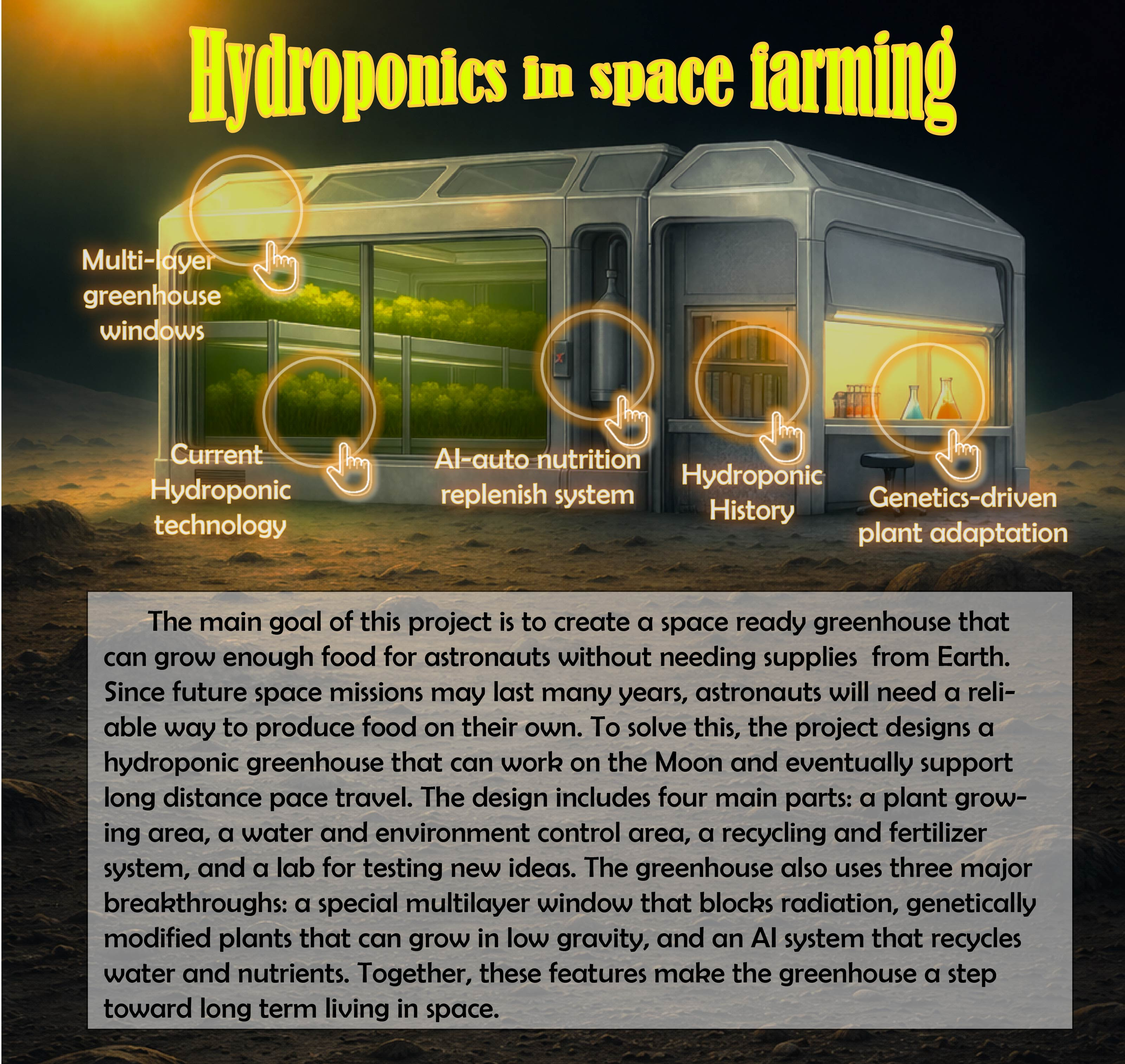
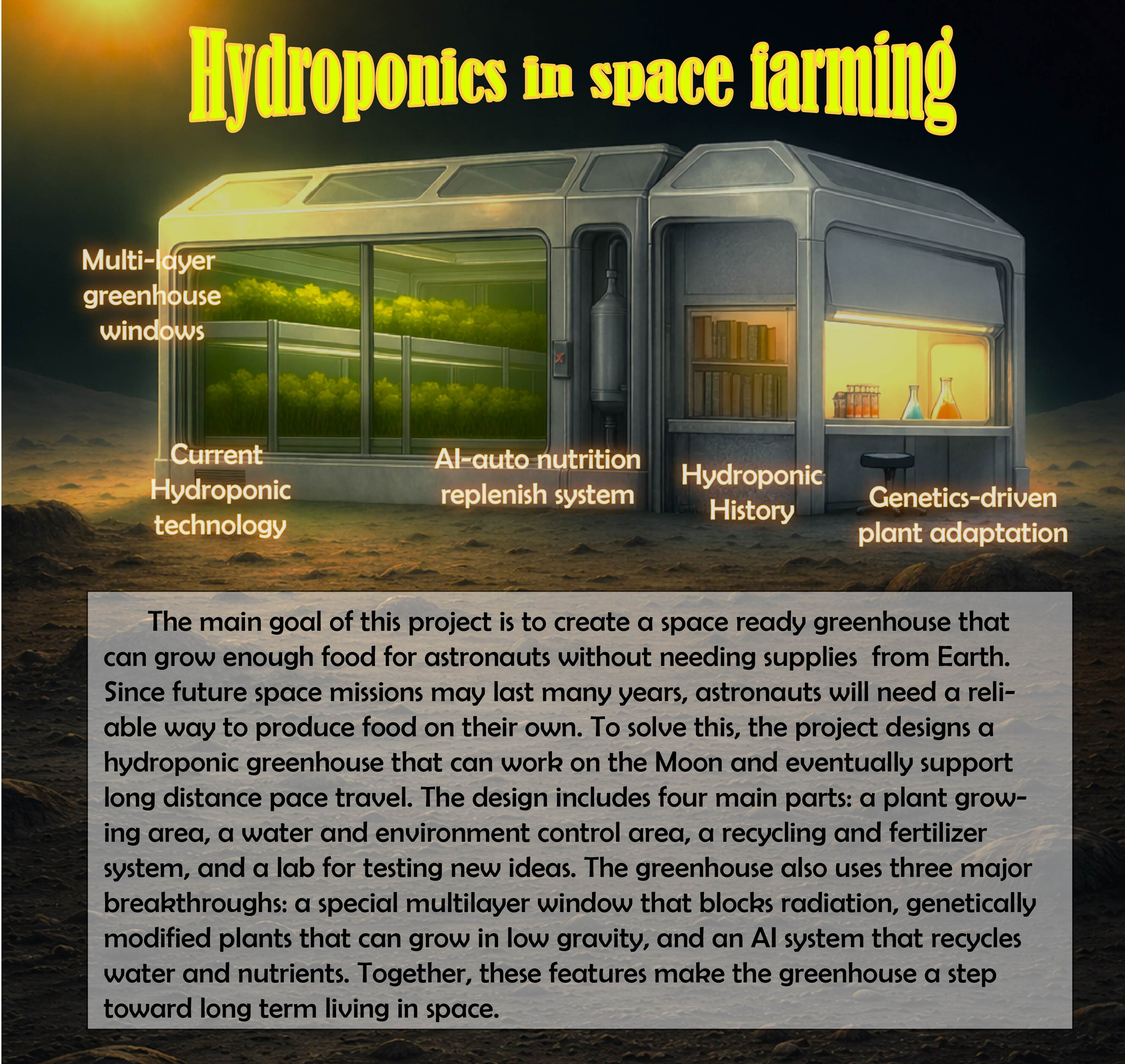
reduce main top,trial2

Changed region(s): [[0.4688, 0.2796, 0.9062, 0.466], [0.2188, 0.3106, 0.3438, 0.497], [0.1562, 0.1243, 0.2812, 0.2796]]

diff --git a/index.html b/index.html
@@ -45,27 +45,27 @@
         /* Position each button on the hand/circle spots */
         /* Adjust these percentages based on the actual positions in Main.jpg */
         #button1 {
-            top: 20.2%;
+            top: 12%;
             left: 15.3%;
         }
         
         #button2 {
-            top: 35.5%;
+            top: 28.5%;
             right: 26.5%;
         }
         
         #button3 {
-            top: 38.3%;
+            top: 28.3%;
             left: 21.7%;
         }
         
         #button4 {
-            top: 34.2%;
+            top: 24.2%;
             left: 46.5%;
         }
         
         #button5 {
-            top: 36.9%;
+            top: 29%;
             right: 11%;
         }
     </style>
